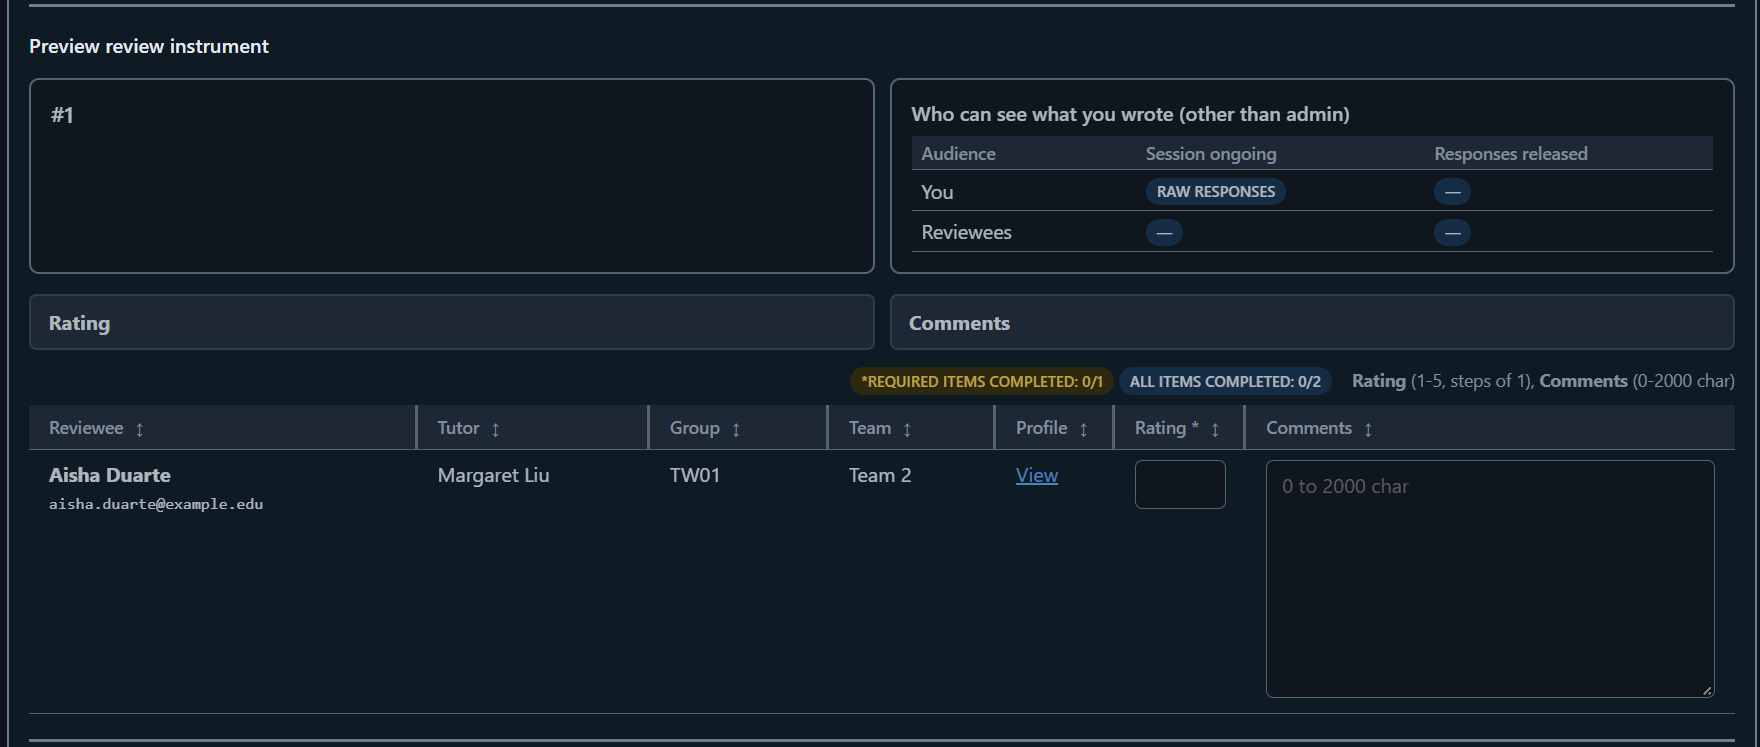
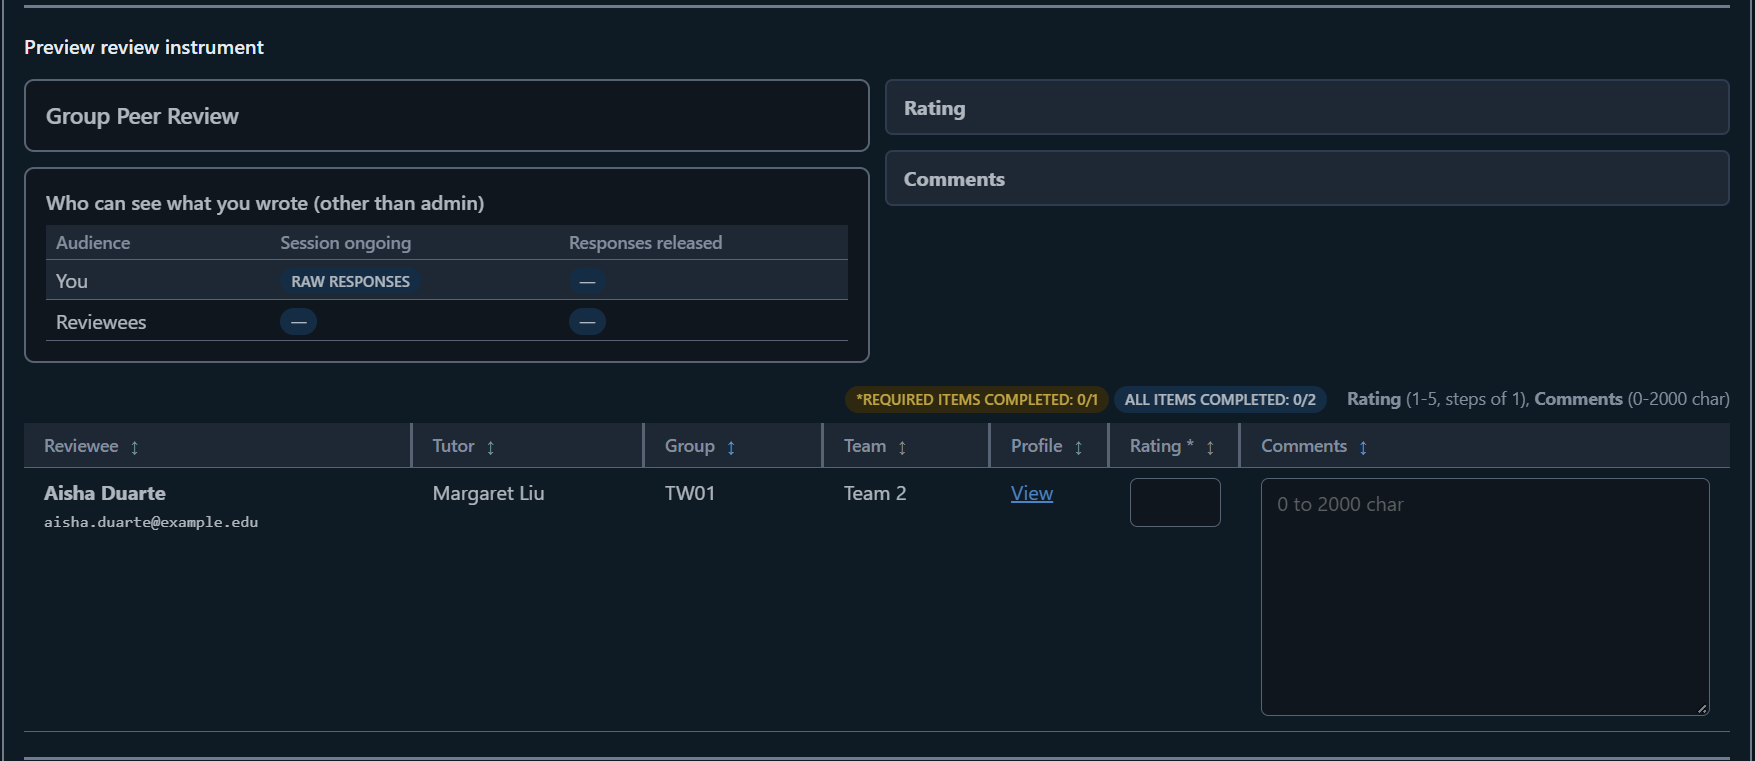
19T Item 16 entry 7: the Guide's preview capture retaken
The author's Guide_v4b3 pair replaces instrument-card-preview and its
dark half, which showed Band 2 before Item 17 rung 4 and entry 6 ("#1"
over an empty name card, the visibility card on the right, the help
cards in a row beneath). The new pair shows the name card over the
visibility card and the help cards on the right; both halves one
screen. The alt text follows. No other capture shows the intro.

Claude-Session: https://claude.ai/code/session_0116Ns1HgCKeKutgZT3Tje64

diff --git a/app/web/templates/guide.html b/app/web/templates/guide.html
@@ -315,18 +315,20 @@
     <figure class="guide-figure">
       <img src="/static/guide/instrument-card-preview.png"
            data-theme-variant="light" loading="lazy"
-           alt="The Preview review instrument part of the card: the description
-                box, the Who can see what you wrote table, the Rating and Comments
-                help-text cards, the required and all-items counts, and a
-                sample reviewee row with Tutor, Group, Team and Profile columns
-                and the Rating and Comments inputs.">
+           alt="The Preview review instrument part of the card: on the left the
+                instrument's name card over the Who can see what you wrote table,
+                on the right the Rating and Comments help-text cards, then the
+                required and all-items counts and a sample reviewee row with
+                Tutor, Group, Team and Profile columns and the Rating and
+                Comments inputs.">
       <img src="/static/guide/instrument-card-preview-dark.png"
            data-theme-variant="dark" loading="lazy"
-           alt="The Preview review instrument part of the card: the description
-                box, the Who can see what you wrote table, the Rating and Comments
-                help-text cards, the required and all-items counts, and a
-                sample reviewee row with Tutor, Group, Team and Profile columns
-                and the Rating and Comments inputs.">
+           alt="The Preview review instrument part of the card: on the left the
+                instrument's name card over the Who can see what you wrote table,
+                on the right the Rating and Comments help-text cards, then the
+                required and all-items counts and a sample reviewee row with
+                Tutor, Group, Team and Profile columns and the Rating and
+                Comments inputs.">
     </figure>
     <p>
       Per instrument you can set <strong>who sees responses and in what

diff --git a/guide/segment_19T_advanced_instruments.md b/guide/segment_19T_advanced_instruments.md
@@ -2607,6 +2607,15 @@ item of their own. It closes when the author says so.
    textarea" stale, stale comments in the template and tests, and
    `spec/reviewer-surface.md` counting "instruments the reviewer is
    assigned on" where both surfaces count the session's; all fixed.
+7. **The Guide's preview capture retaken** (author's `Guide_v4b3`,
+   2026-09-30). `instrument-card-preview` and its dark half showed Band
+   2 before Item 17 rung 4 and entry 6: "#1" over an empty name card, the
+   visibility card on the right, the help cards in a row beneath. The
+   pair now shows the name card ("Group Peer Review") over the
+   visibility card, the help cards on the right; both halves one screen
+   (`spec/ui_elements.md` §10). The alt text follows. The other captures
+   show no intro and nothing else from entries 3–6 (the Settings page,
+   the password box and a focused file input have no capture).
 
 ### Doc impact
 
